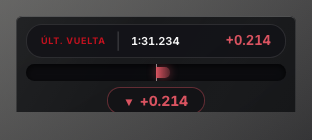
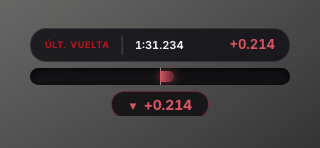
fix(functional): drop the outer panel on delta capsule (ISA-1128)
The capsule direction carries its own pill surfaces — the shared glass
panel behind it read as a stray shadow/background. Removed for
data-template=capsule.

Generated with [Devin](https://devin.ai)

diff --git a/vantare-v2/frontend/src/overlay/design-systems/vantare-functional/tokens.css b/vantare-v2/frontend/src/overlay/design-systems/vantare-functional/tokens.css
@@ -158,7 +158,10 @@
 .vf-delta-foot .vf-clock { font-size: 12px; }
 
 /* Dirección "capsule" (tipo Crystal): fila de datos en píldora, pista
-   gruesa con relleno desde el centro y píldora de valor superpuesta. */
+   gruesa con relleno desde el centro y píldora de valor superpuesta.
+   Las cápsulas llevan su propia superficie — el panel de fondo sobra. */
+.vf-delta[data-template="capsule"] { background: none; box-shadow: none; backdrop-filter: none; border-radius: 0; }
+.vf-delta[data-template="capsule"]::after { display: none; }
 .vf-delta-capsule { display: flex; flex-direction: column; gap: 6px; padding: 8px 10px 10px; }
 .vf-delta-capsule-top { display: flex; align-items: center; gap: 10px; padding: 4px 14px; border-radius: 16px; background: rgb(18 18 22 / 85%); border: 1px solid rgb(255 255 255 / 11%); }
 .vf-delta-capsule-label { color: var(--vf-accent); font-size: 9px; font-weight: 700; letter-spacing: .08em; white-space: nowrap; }
